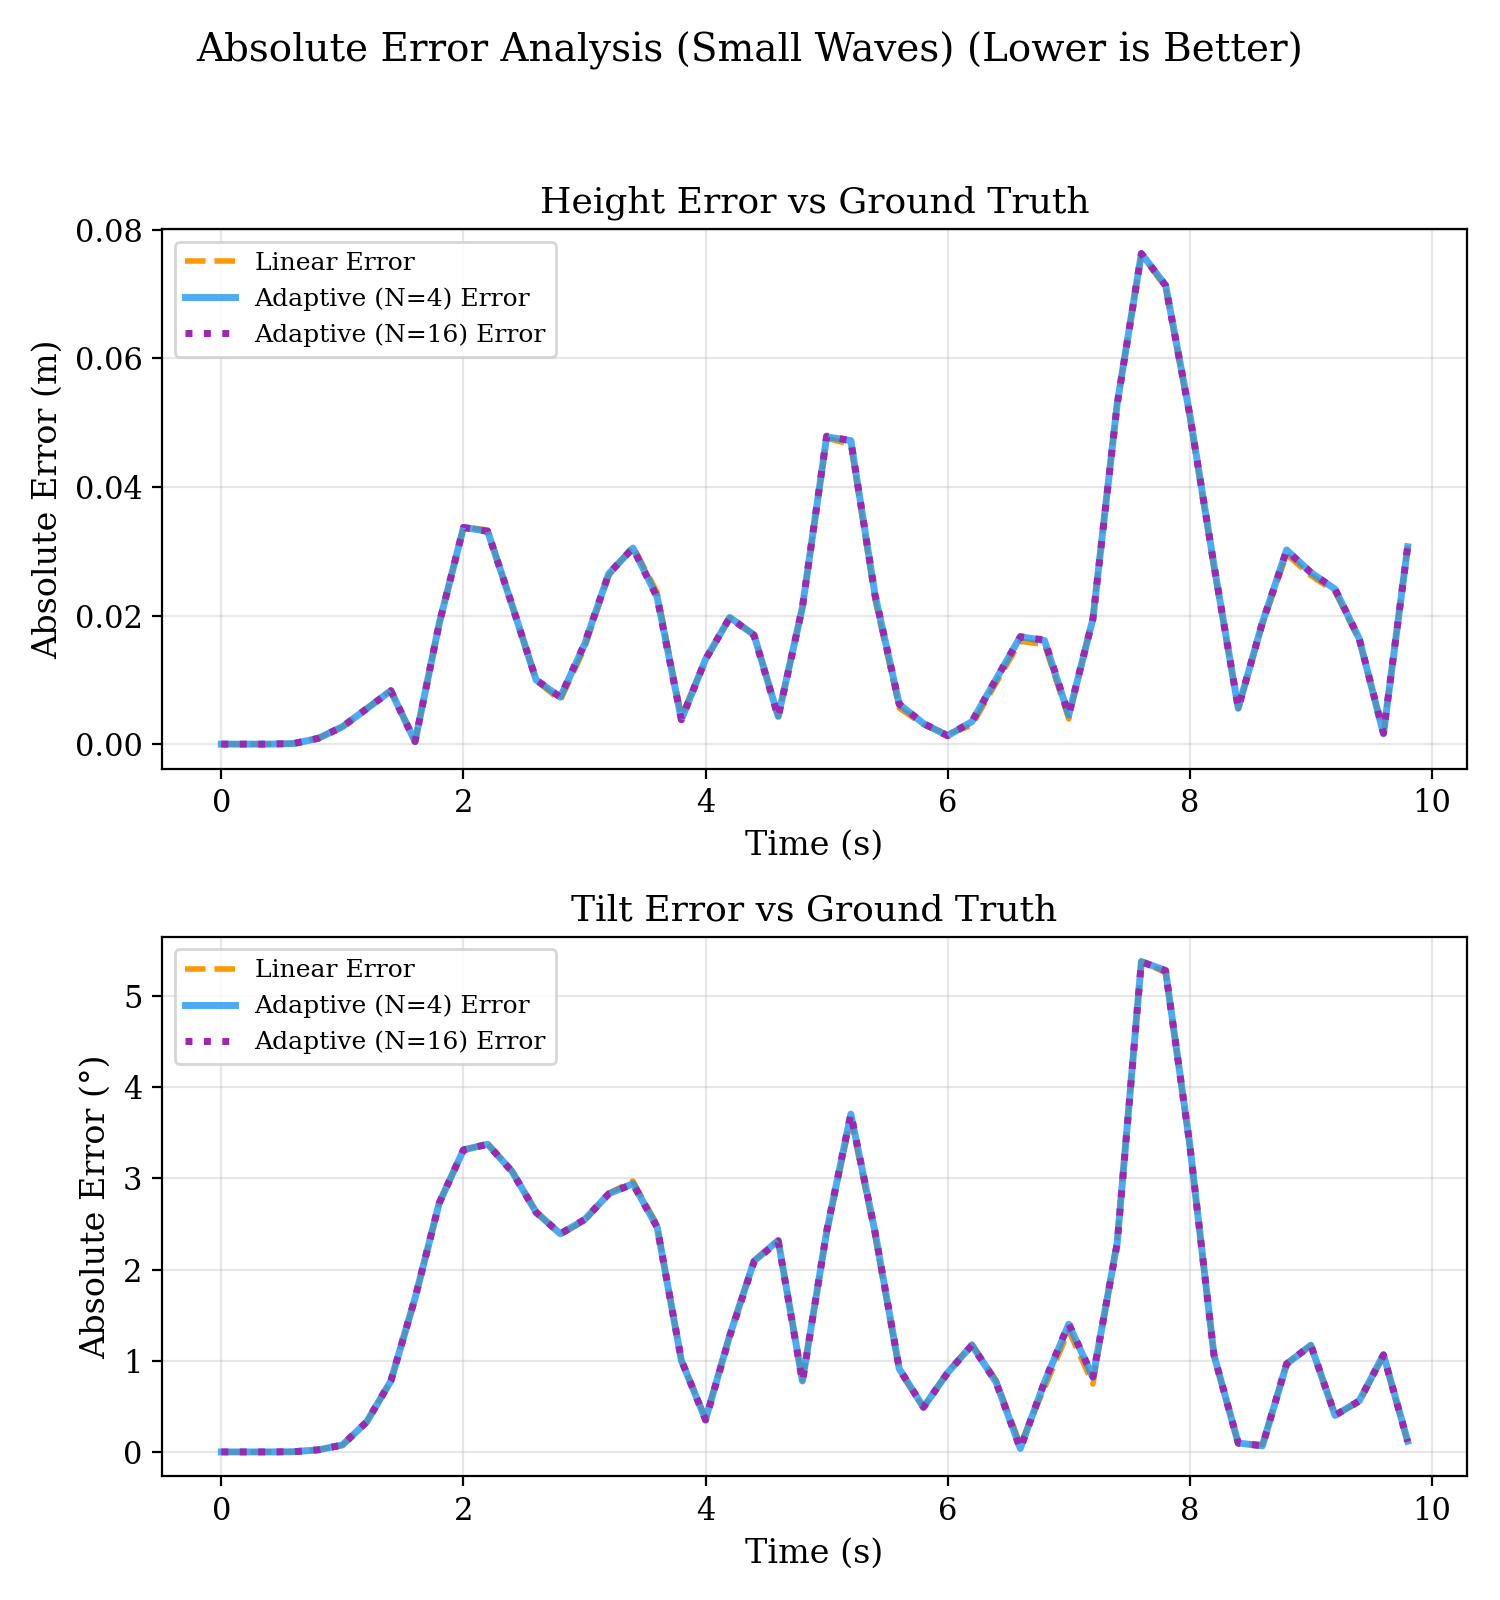
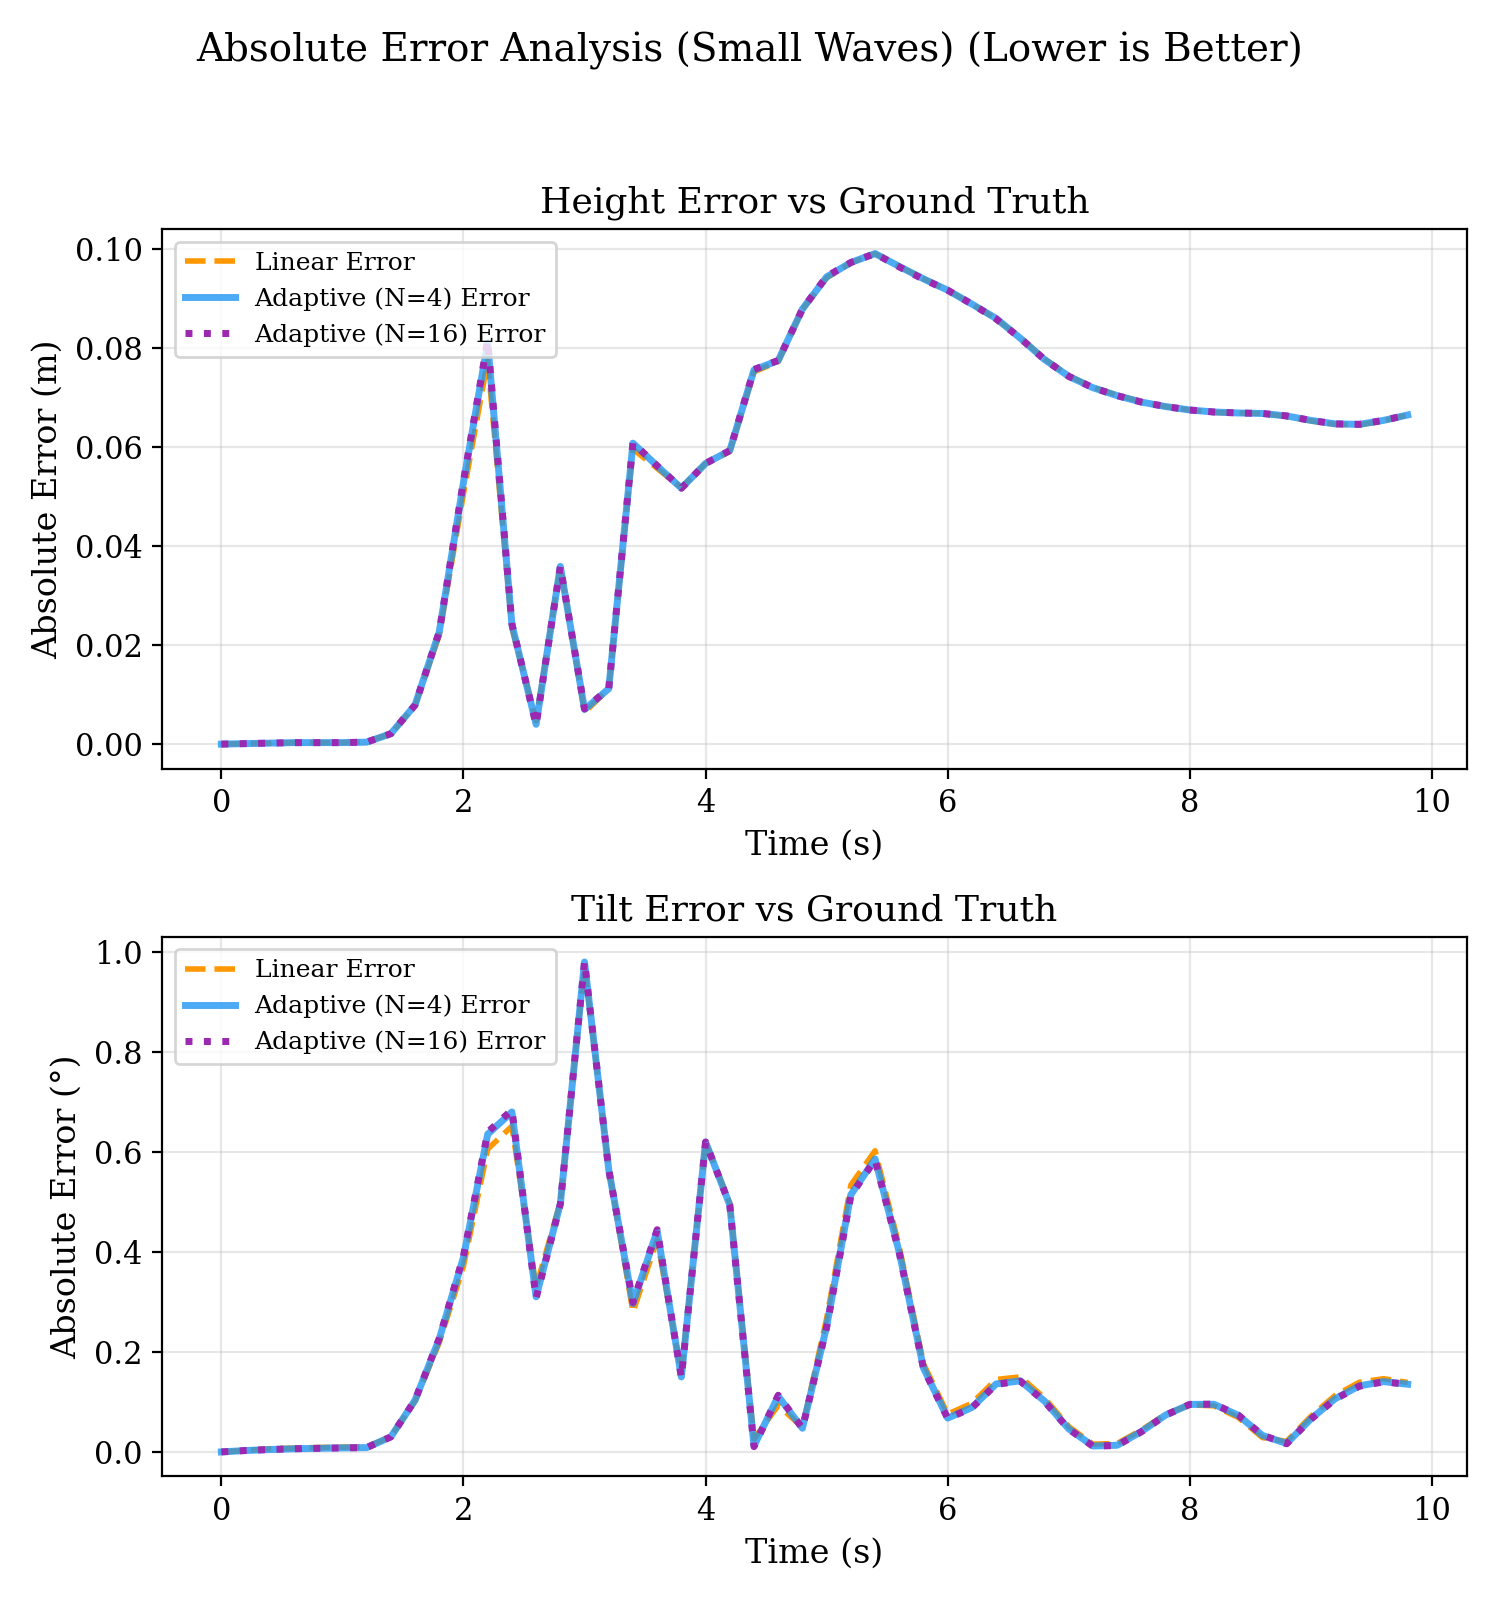
Change header on readme

diff --git a/README.md b/README.md
@@ -1,4 +1,4 @@
-# DH2323-WaveBuoyancy
+# RealTime-Buoyancy-Unity
 
 **Real-Time Surface-Pressure Buoyancy with Adaptive Curved Clipping**
 A Unity + C++ implementation of Hirae et al. (2025)'s closed-form hydrostatic-pressure integrator, with a custom *Adaptive Curved Clipping* refinement for coarse meshes on Gerstner waves.
